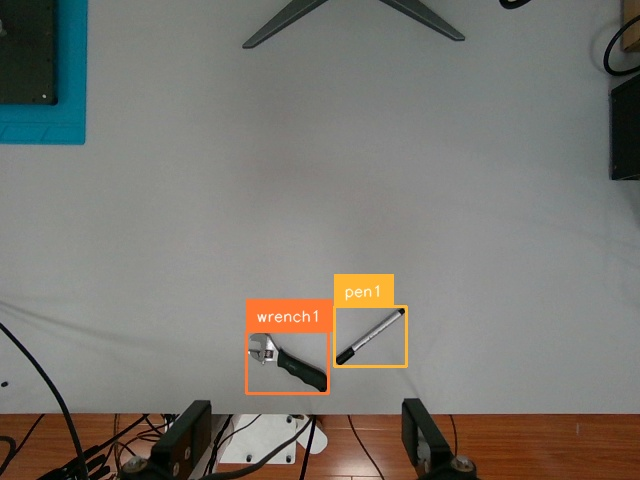
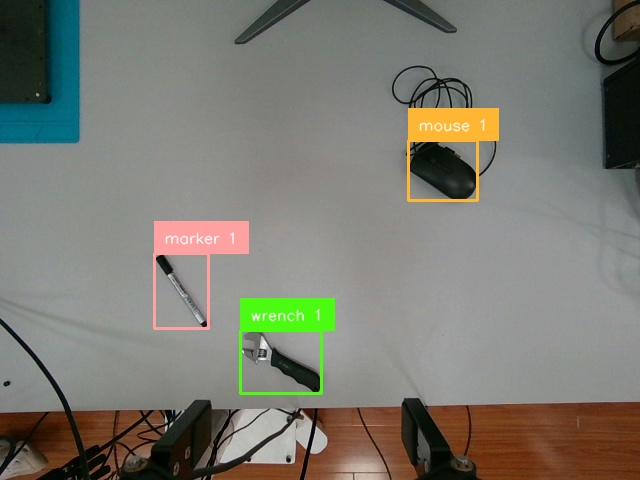
modify:机械臂移动失败自动退出

diff --git a/src/rm_robot_control/scripts/visual_capture_sam_yolo.py b/src/rm_robot_control/scripts/visual_capture_sam_yolo.py
@@ -21,6 +21,7 @@ def toHTM(rot):
     
     return rot_HTM
 
+# 抓取物体
 def capture(obj, gripper_pose):
     # 夹爪与物体中心点对齐
     pose_xyz = obj['XYZ']
@@ -38,8 +39,9 @@ def capture(obj, gripper_pose):
     robot_controller.movej_p(pose_base_obj_rpy)
     # 向下移动夹爪并抓取物体
     pose_base_grapper_down = pose_base_obj_rpy.copy()
-    down_distance = pose_xyz[2] - 0.225
+    down_distance = pose_xyz[2] - 0.22
     pose_base_grapper_down[0] += down_distance
+    print(pose_base_grapper_down[0])
     robot_controller.movej_p(pose_base_grapper_down)
     gripper.set_position(gripper_pose)
     time.sleep(1.5)
@@ -49,6 +51,7 @@ def capture(obj, gripper_pose):
     pose_base_grapper_up[0] -= up
     robot_controller.movej_p(pose_base_grapper_up)
 
+# 输入指定的抓取目标
 def input_target_labels():
     while True:
         input_str = input("请输入目标物体名称列表 (例如: cell phone, cup, book): ")
@@ -65,7 +68,8 @@ def input_target_labels():
     
     return target_labels
 
-def input_specified_location(prompt_msg="请输入指定放置位置（例如: book): "):
+# 输入指定的放置位置
+def input_specified_location(prompt_msg="请输入指定放置位置（例如: box): "):
     while True:
         label = input(prompt_msg).strip().lower()
         if label not in label_to_object:
@@ -75,80 +79,86 @@ def input_specified_location(prompt_msg="请输入指定放置位置（例如: b
 
 
 if __name__ == '__main__':
-
-    # 垂直抓取流程：机械臂当前位姿 -> 相机Z轴竖直向下, X-Y平面与桌面平行 -> 夹爪与物体中心点对齐, X轴平行/垂直于物体 -> 抓取物体
-
-    "-------------------------- 机械臂初始化 --------------------------"
-    # 创建一个机器人手臂控制器实例, 并连接到机器人手臂
-    robot_controller = RobotArmController("192.168.1.18", 8080, 3)
-    # 获取机械臂的基本信息
-    robot_controller.get_arm_software_info()
-    # 初始化夹爪控制器
-    gripper = GripperController()
-    gripper.set_position(0)
     
-    "-------------------------- 相机Z轴竖直向下, X-Y平面与桌面平行 --------------------------"
-    # 相机相对于机械臂末端的位姿
-    rot_arm_camera =  [[-0.01451765, -0.99967178, -0.02110838],
-                       [ 0.99987844, -0.01439412, -0.00599222],
-                       [ 0.00568642, -0.02119281,  0.99975924]]
-    T_arm_camera = toHTM(rot_arm_camera)
-    T_arm_camera[:3, 3] =  [0.08424036, 0.00551616, 0.04064065]
-    # 机械臂初始位姿
-    pose_init_arm = [0.1, 0.35, 0.1, np.pi/2, 0, np.pi/2]
-    robot_controller.movej_p(pose_init_arm)
-    # 相机初始位姿
-    T_init_arm = robot_controller.pos2matrix(pose_init_arm)
-    
-    "-------------------------- 识别物体类别、位置与朝向角 --------------------------"
-    # 初始化 RealSense
-    desired_serial = '244422300361' # 327522301155为工位相机，244422300361为realman左臂相机 
-    realsense = realsense(desired_serial)
-    # 获取一帧图像
-    for _ in range(10): realsense.pipeline.wait_for_frames()
-    print("准备从 Realsense 获取一帧图像... 按 's' 键保存当前帧并进行处理")
-    while True:
-        depth_intri, depth_frame, color_image, depth_image = realsense.get_aligned_images()
-        cv2.imshow("RGB Frame (Press 's' to select)", color_image)
-        key = cv2.waitKey(1)
-        if key == ord('s'):
-            cv2.destroyAllWindows()
-            break
-    
-    # 初始化识别模型
-    yolo = YOLO("/home/hh/realman_robotic_arm/src/rm_robot_control/model/yolo/yolo11x.pt")
-    # 初始化分割模型
-    sam_checkpoint = r'/home/hh/realman_robotic_arm/src/rm_robot_control/model/sam/sam_vit_l.pth'
-    sam_model_type = 'vit_l'
-    sam_device = 'cuda'
-    model = sam_model_registry[sam_model_type](checkpoint=sam_checkpoint)
-    model.to(device=sam_device)
-    predictor = SamPredictor(model)
-    # 创建SamPredict类的实例
-    model = SamYoloPredict(image=color_image)
-    # 检测并分割物体
-    all_object_info, vis_image = model.identification_segmentation(depth_intri=depth_intri, depth_frame=depth_frame, yolo=yolo, predictor=predictor)
-    
-    "-------------------------- 夹爪与物体中心点对齐, X轴平行/垂直于物体 --------------------------"
-     # 变量初始化
-    T_arm_obj_xyz = np.eye(4)
-    T_arm_obj_rpy = np.eye(4)
-    # 创建一个字典，方便快速查找
-    label_to_object = {obj['label'].lower(): obj for obj in all_object_info}
-    # 允许用户输入多个目标标签，用逗号分隔
-    target_labels = input_target_labels()
-    specified_location = input_specified_location()
-    # 遍历目标标签，按顺序执行移动操作
-    for target_label in target_labels:
-        # 抓取指定物体
-        print(f"正在处理物体：{target_label}")
-        target = label_to_object[target_label]
-        capture(target, 9000)
-        # 将物体放置在指定位置
-        location = label_to_object[specified_location]
-        capture(location, 0)
+    try:
+        # 垂直抓取流程：机械臂当前位姿 -> 相机Z轴竖直向下, X-Y平面与桌面平行 -> 夹爪与物体中心点对齐, X轴平行/垂直于物体 -> 抓取物体
 
-        time.sleep(1)
+        "-------------------------- 机械臂初始化 --------------------------"
+        # 创建一个机器人手臂控制器实例, 并连接到机器人手臂
+        robot_controller = RobotArmController("192.168.1.18", 8080, 3)
+        # 获取机械臂的基本信息
+        robot_controller.get_arm_software_info()
+        # 初始化夹爪控制器
+        gripper = GripperController()
+        gripper.set_position(0)
+        
+        "-------------------------- 相机Z轴竖直向下, X-Y平面与桌面平行 --------------------------"
+        # 相机相对于机械臂末端的位姿
+        rot_arm_camera = [[-0.01451765, -0.99967178, -0.02110838],
+                          [ 0.99987844, -0.01439412, -0.00599222],
+                          [ 0.00568642, -0.02119281,  0.99975924]]
+        T_arm_camera = toHTM(rot_arm_camera)
+        T_arm_camera[:3, 3] =  [0.08424036, 0.00551616, 0.04064065]
+        # 机械臂初始位姿
+        pose_init_arm = [0.1, 0.35, 0.1, np.pi/2, 0, np.pi/2]
+        robot_controller.movej_p(pose_init_arm)
+        # 相机初始位姿
+        T_init_arm = robot_controller.pos2matrix(pose_init_arm)
+        
+        "-------------------------- 识别物体类别、位置与朝向角 --------------------------"
+        # 初始化 RealSense
+        desired_serial = '244422300361' # 327522301155为工位相机，244422300361为realman左臂相机 
+        realsense = realsense(desired_serial)
+        # 获取一帧图像
+        for _ in range(10): realsense.pipeline.wait_for_frames()
+        print("准备从 Realsense 获取一帧图像... 按 's' 键保存当前帧并进行处理")
+        while True:
+            depth_intri, depth_frame, color_image, depth_image = realsense.get_aligned_images()
+            cv2.imshow("RGB Frame (Press 's' to select)", color_image)
+            key = cv2.waitKey(1)
+            if key == ord('s'):
+                cv2.destroyAllWindows()
+                break
+        
+        # 初始化识别模型
+        yolo = YOLO("/home/hh/realman_robotic_arm/src/rm_robot_control/model/yolo/yolo11x.pt")
+        # 初始化分割模型
+        sam_checkpoint = r'/home/hh/realman_robotic_arm/src/rm_robot_control/model/sam/sam_vit_l.pth'
+        sam_model_type = 'vit_l'
+        sam_device = 'cuda'
+        model = sam_model_registry[sam_model_type](checkpoint=sam_checkpoint)
+        model.to(device=sam_device)
+        predictor = SamPredictor(model)
+        # 创建SamPredict类的实例
+        model = SamYoloPredict(image=color_image)
+        # 检测并分割物体
+        all_object_info, vis_image = model.identification_segmentation(depth_intri=depth_intri, depth_frame=depth_frame, yolo=yolo, predictor=predictor)
+        
+        "-------------------------- 夹爪与物体中心点对齐, X轴平行/垂直于物体 --------------------------"
+        # 变量初始化
+        T_arm_obj_xyz = np.eye(4)
+        T_arm_obj_rpy = np.eye(4)
+        # 创建一个字典，方便快速查找
+        label_to_object = {obj['label'].lower(): obj for obj in all_object_info}
+        # 允许用户输入多个目标标签，用逗号分隔
+        target_labels = input_target_labels()
+        specified_location = input_specified_location()
+        # 遍历目标标签，按顺序执行移动操作
+        for target_label in target_labels:
+            # 抓取指定物体
+            print(f"正在处理物体：{target_label}")
+            target = label_to_object[target_label]
+            capture(target, 9000)
+            # 将物体放置在指定位置
+            location = label_to_object[specified_location]
+            capture(location, 0)
 
-    # 与机械臂断连
-    robot_controller.disconnect()
+            time.sleep(1)
+
+        # 机械臂回到初始位姿
+        robot_controller.movej_p(pose_init_arm)
+        # 与机械臂断连
+        robot_controller.disconnect()
+
+    except SystemExit:
+        print("⚠ 程序因机械臂移动失败而退出。")

diff --git a/src/rm_robot_control/scripts/visual_capture_sam_dino.py b/src/rm_robot_control/scripts/visual_capture_sam_dino.py
@@ -65,7 +65,7 @@ def input_target_labels():
     
     return target_labels
 
-def input_specified_location(prompt_msg="请输入指定放置位置（例如: book): "):
+def input_specified_location(prompt_msg="请输入指定放置位置（例如: box): "):
     while True:
         label = input(prompt_msg).strip().lower()
         if label not in label_to_object:
@@ -74,82 +74,88 @@ def input_specified_location(prompt_msg="请输入指定放置位置（例如: b
             return label
 
 
-
 if __name__ == '__main__':
 
-    # 垂直抓取流程：机械臂当前位姿 -> 相机Z轴竖直向下, X-Y平面与桌面平行 -> 夹爪与物体中心点对齐, X轴平行/垂直于物体 -> 抓取物体
+    try:
+        # 垂直抓取流程：机械臂当前位姿 -> 相机Z轴竖直向下, X-Y平面与桌面平行 -> 夹爪与物体中心点对齐, X轴平行/垂直于物体 -> 抓取物体
 
-    "-------------------------- 机械臂初始化 --------------------------"
-    # 创建一个机器人手臂控制器实例, 并连接到机器人手臂
-    robot_controller = RobotArmController("192.168.1.18", 8080, 3)
-    # 获取机械臂的基本信息
-    robot_controller.get_arm_software_info()
-    # 初始化夹爪控制器
-    gripper = GripperController()
-    gripper.set_position(0)
-    
-    "-------------------------- 相机Z轴竖直向下, X-Y平面与桌面平行 --------------------------"
-    # 相机相对于机械臂末端的位姿
-    rot_arm_camera =  [[-0.01451765, -0.99967178, -0.02110838],
-                       [ 0.99987844, -0.01439412, -0.00599222],
-                       [ 0.00568642, -0.02119281,  0.99975924]]
-    T_arm_camera = toHTM(rot_arm_camera)
-    T_arm_camera[:3, 3] =  [0.08424036, 0.00551616, 0.04064065]
-    # 机械臂初始位姿
-    pose_init_arm = [0, 0.35, 0.1, np.pi/2, 0, np.pi/2]
-    robot_controller.movej_p(pose_init_arm)
-    # 相机初始位姿
-    T_init_arm = robot_controller.pos2matrix(pose_init_arm)
-    
-    "-------------------------- 识别物体类别、位置与朝向角 --------------------------"
-    # 初始化 DINO-X 对象检测器
-    DINO = DINOXObjectDetector()
+        "-------------------------- 机械臂初始化 --------------------------"
+        # 创建一个机器人手臂控制器实例, 并连接到机器人手臂
+        robot_controller = RobotArmController("192.168.1.18", 8080, 3)
+        # 获取机械臂的基本信息
+        robot_controller.get_arm_software_info()
+        # 初始化夹爪控制器
+        gripper = GripperController()
+        gripper.set_position(0)
+        
+        "-------------------------- 相机Z轴竖直向下, X-Y平面与桌面平行 --------------------------"
+        # 相机相对于机械臂末端的位姿
+        rot_arm_camera = [[-0.01451765, -0.99967178, -0.02110838],
+                          [ 0.99987844, -0.01439412, -0.00599222],
+                          [ 0.00568642, -0.02119281,  0.99975924]]
+        T_arm_camera = toHTM(rot_arm_camera)
+        T_arm_camera[:3, 3] =  [0.08424036, 0.00551616, 0.04064065]
+        # 机械臂初始位姿
+        pose_init_arm = [0, 0.35, 0.1, np.pi/2, 0, np.pi/2]
+        robot_controller.movej_p(pose_init_arm)
+        # 相机初始位姿
+        T_init_arm = robot_controller.pos2matrix(pose_init_arm)
+        
+        "-------------------------- 识别物体类别、位置与朝向角 --------------------------"
+        # 初始化 DINO-X 对象检测器
+        DINO = DINOXObjectDetector()
 
-    # 初始化 RealSense
-    desired_serial = '244422300361'
-    realsense = realsense(desired_serial)
-    # 获取一帧图像
-    for _ in range(10): realsense.pipeline.wait_for_frames()
-    print("准备从 Realsense 获取一帧图像... 按 's' 键保存当前帧并进行处理")
-    while True:
-        depth_intri, depth_frame, color_image, depth_image = realsense.get_aligned_images()
-        cv2.imshow("RGB Frame (Press 's' to select)", color_image)
-        timestamp = datetime.now().strftime("%Y%m%d_%H%M%S")
-        save_path = os.path.join(DINO.img_path, f"realsense_frame_{timestamp}.jpg")
-        cv2.imwrite(save_path, color_image)
-        key = cv2.waitKey(1)
-        if key == ord('s'):
-            cv2.destroyAllWindows()
-            break
-    image_path = os.path.join(DINO.img_path, f"realsense_frame_{timestamp}.jpg")
-    image_b64 = image_to_base64(image_path)
-    
-    # 识别物体类别、位置与朝向角
-    all_object_info = DINO.recognition_and_decoding(image_b64, depth_frame, depth_intri)
-    DINO.visualization(color_image)
-    
-    "-------------------------- 夹爪与物体中心点对齐, X轴平行/垂直于物体 --------------------------"
-    # 变量初始化
-    T_arm_obj_xyz = np.eye(4)
-    T_arm_obj_rpy = np.eye(4)
-    # 创建一个字典，方便快速查找
-    label_to_object = {obj['label'].lower(): obj for obj in all_object_info}
-    # 允许用户输入多个目标标签，用逗号分隔
-    target_labels = input_target_labels()
-    specified_location = input_specified_location()
-    # 遍历目标标签，按顺序执行移动操作
-    for target_label in target_labels:
-        # 抓取指定物体
-        print(f"正在处理物体：{target_label}")
-        target = label_to_object[target_label]
-        capture(target, 9000)
-        # 将物体放置在指定位置
-        location = label_to_object[specified_location]
-        capture(location, 0)
+        # 初始化 RealSense
+        desired_serial = '244422300361'
+        realsense = realsense(desired_serial)
+        # 获取一帧图像
+        for _ in range(10): realsense.pipeline.wait_for_frames()
+        print("准备从 Realsense 获取一帧图像... 按 's' 键保存当前帧并进行处理")
+        while True:
+            depth_intri, depth_frame, color_image, depth_image = realsense.get_aligned_images()
+            cv2.imshow("RGB Frame (Press 's' to select)", color_image)
+            timestamp = datetime.now().strftime("%Y%m%d_%H%M%S")
+            save_path = os.path.join(DINO.img_path, f"realsense_frame_{timestamp}.jpg")
+            cv2.imwrite(save_path, color_image)
+            key = cv2.waitKey(1)
+            if key == ord('s'):
+                cv2.destroyAllWindows()
+                break
+        image_path = os.path.join(DINO.img_path, f"realsense_frame_{timestamp}.jpg")
+        image_b64 = image_to_base64(image_path)
+        
+        # 识别物体类别、位置与朝向角
+        all_object_info = DINO.recognition_and_decoding(image_b64, depth_frame, depth_intri)
+        DINO.visualization(color_image)
+        
+        "-------------------------- 夹爪与物体中心点对齐, X轴平行/垂直于物体 --------------------------"
+        # 变量初始化
+        T_arm_obj_xyz = np.eye(4)
+        T_arm_obj_rpy = np.eye(4)
+        # 创建一个字典，方便快速查找
+        label_to_object = {obj['label'].lower(): obj for obj in all_object_info}
+        # 允许用户输入多个目标标签，用逗号分隔
+        target_labels = input_target_labels()
+        specified_location = input_specified_location()
+        # 遍历目标标签，按顺序执行移动操作
+        for target_label in target_labels:
+            # 抓取指定物体
+            print(f"正在处理物体：{target_label}")
+            target = label_to_object[target_label]
+            capture(target, 9000)
+            # 将物体放置在指定位置
+            location = label_to_object[specified_location]
+            capture(location, 0)
 
-        time.sleep(1)
+            time.sleep(1)
+        
+        # 机械臂回到初始位姿
+        robot_controller.movej_p(pose_init_arm)
+        # 与机械臂断连
+        robot_controller.disconnect()  
     
-    # 机械臂回到初始位姿
-    robot_controller.movej_p(pose_init_arm)
-    # 与机械臂断连
-    robot_controller.disconnect()
+    except SystemExit:
+        print("⚠ 程序因机械臂移动失败而退出。")
+
+
+    

diff --git a/src/rm_robot_control/scripts/single_frame_dino.py b/src/rm_robot_control/scripts/single_frame_dino.py
@@ -75,7 +75,7 @@ class DINOXObjectDetector:
         for class_name, confidence in zip(self.class_names, self.confidences):
             class_counts[class_name] += 1
             idx = class_counts[class_name]
-            self.labels.append(f"{class_name}{idx}")
+            self.labels.append(f"{class_name} {idx}")
         # 输出识别结果
         print(f"检测到 {len(self.boxes)} 个物体")
         for i, (box, mask) in enumerate(zip(self.boxes, self.masks)):

diff --git a/src/rm_robot_control/scripts/robot_control.py b/src/rm_robot_control/scripts/robot_control.py
@@ -100,6 +100,7 @@ class RobotArmController:
             print("\nmovej_p motion succeeded\n")
         else:
             print("\nmovej_p motion failed, Error code: ", movej_p_result, "\n")
+            sys.exit(1)
 
     def movel(self, pose, v=20, r=0, connect=0, block=1):
         """
